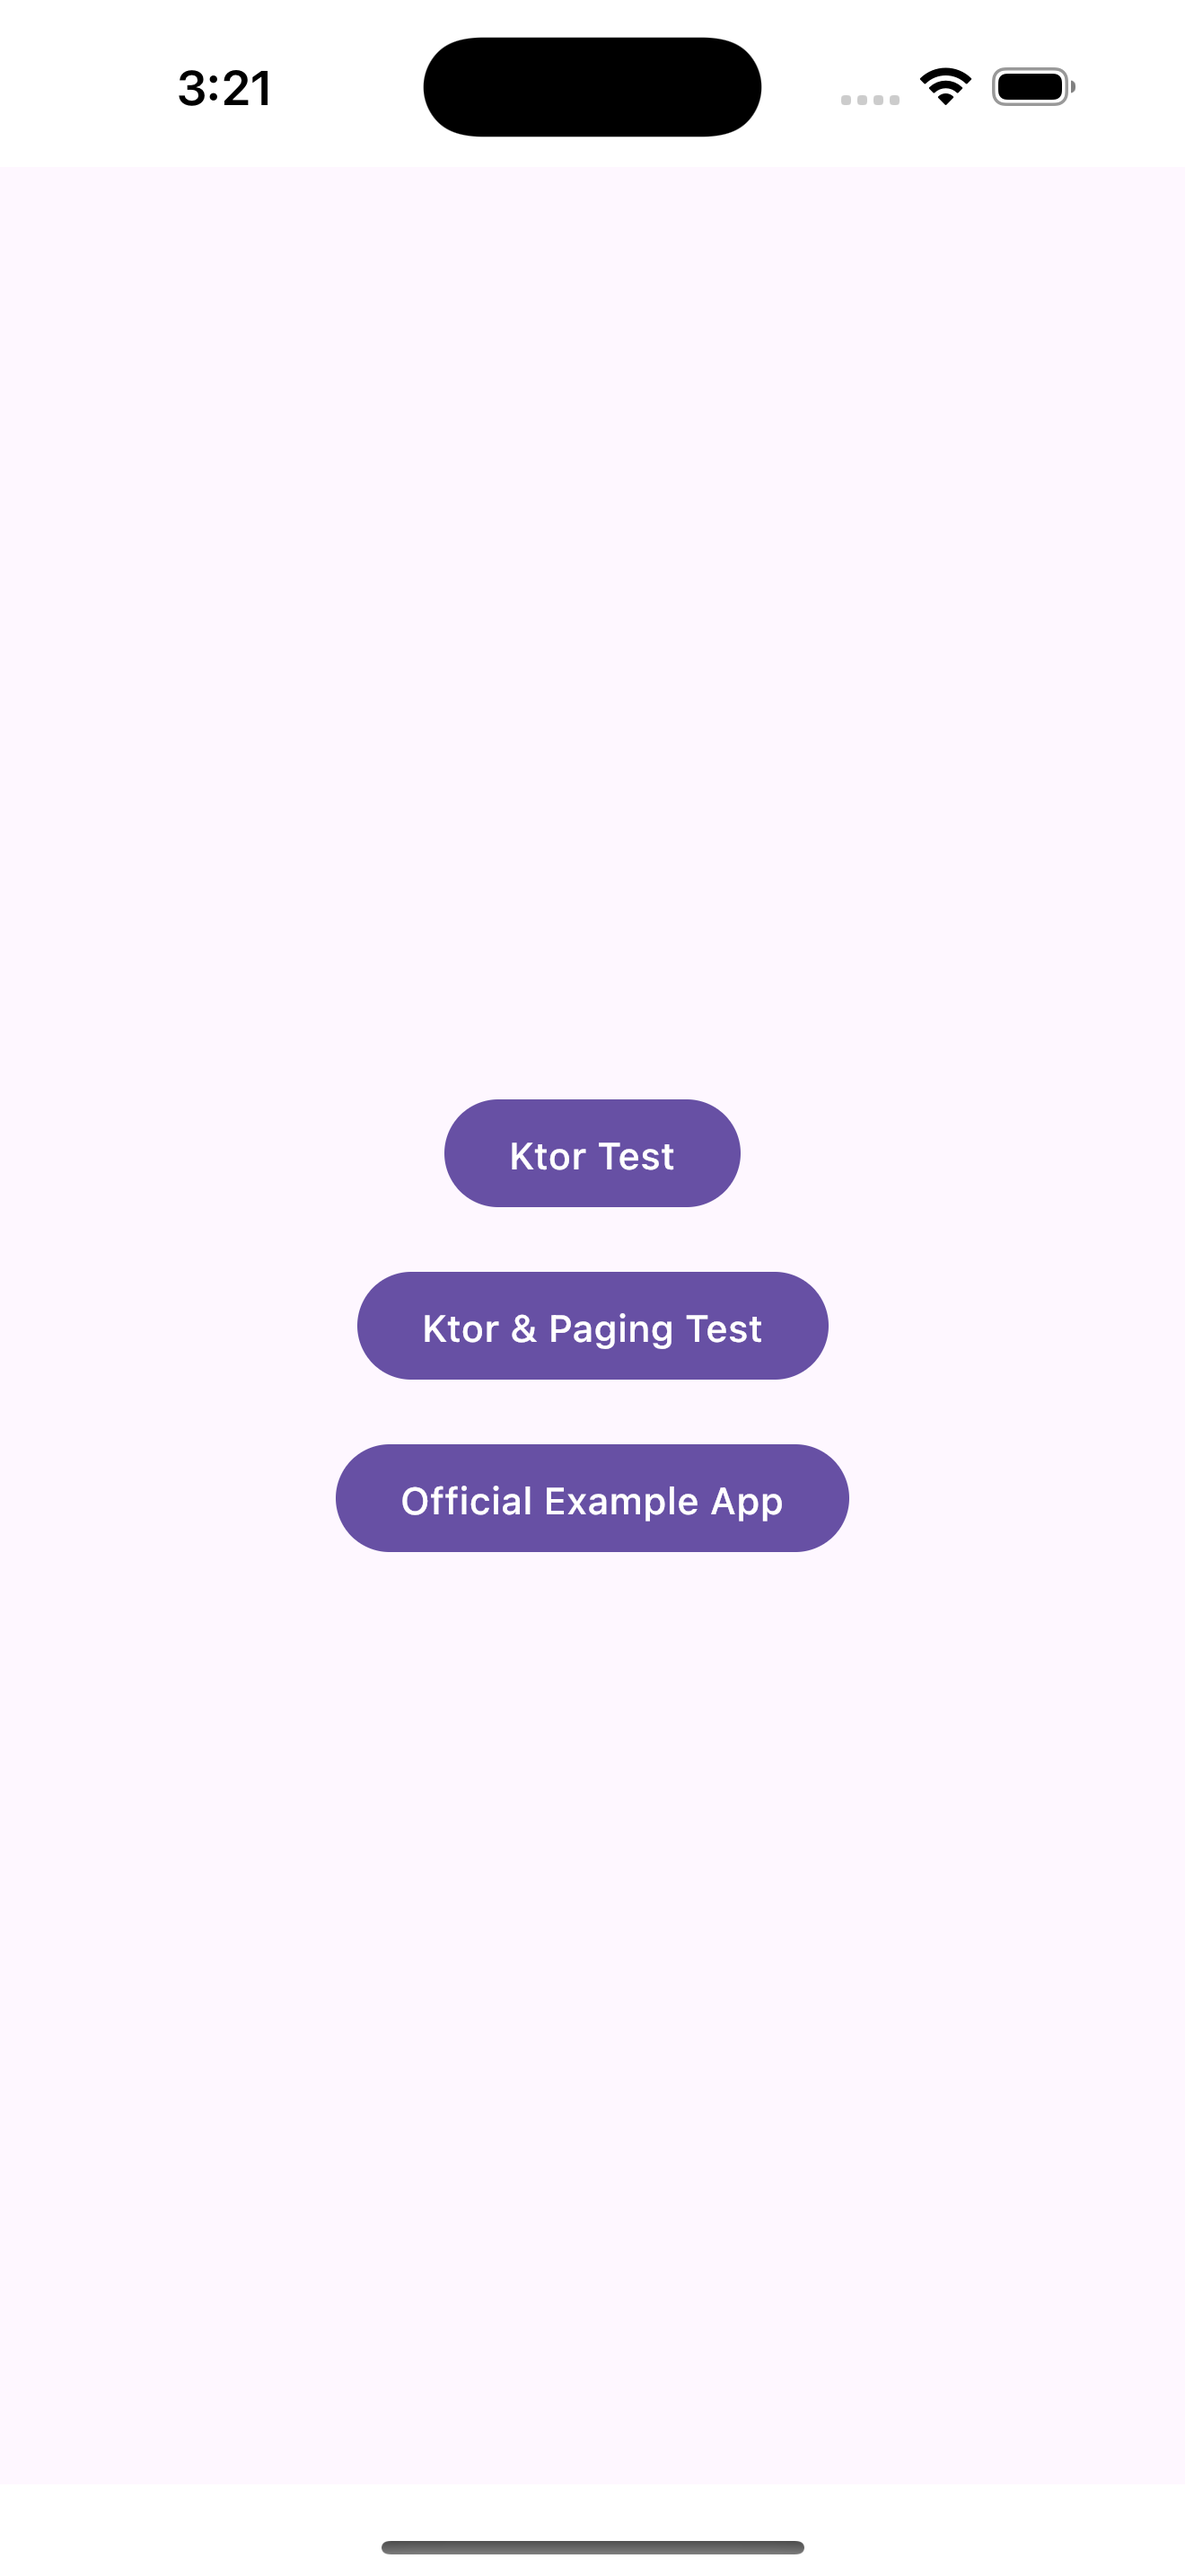
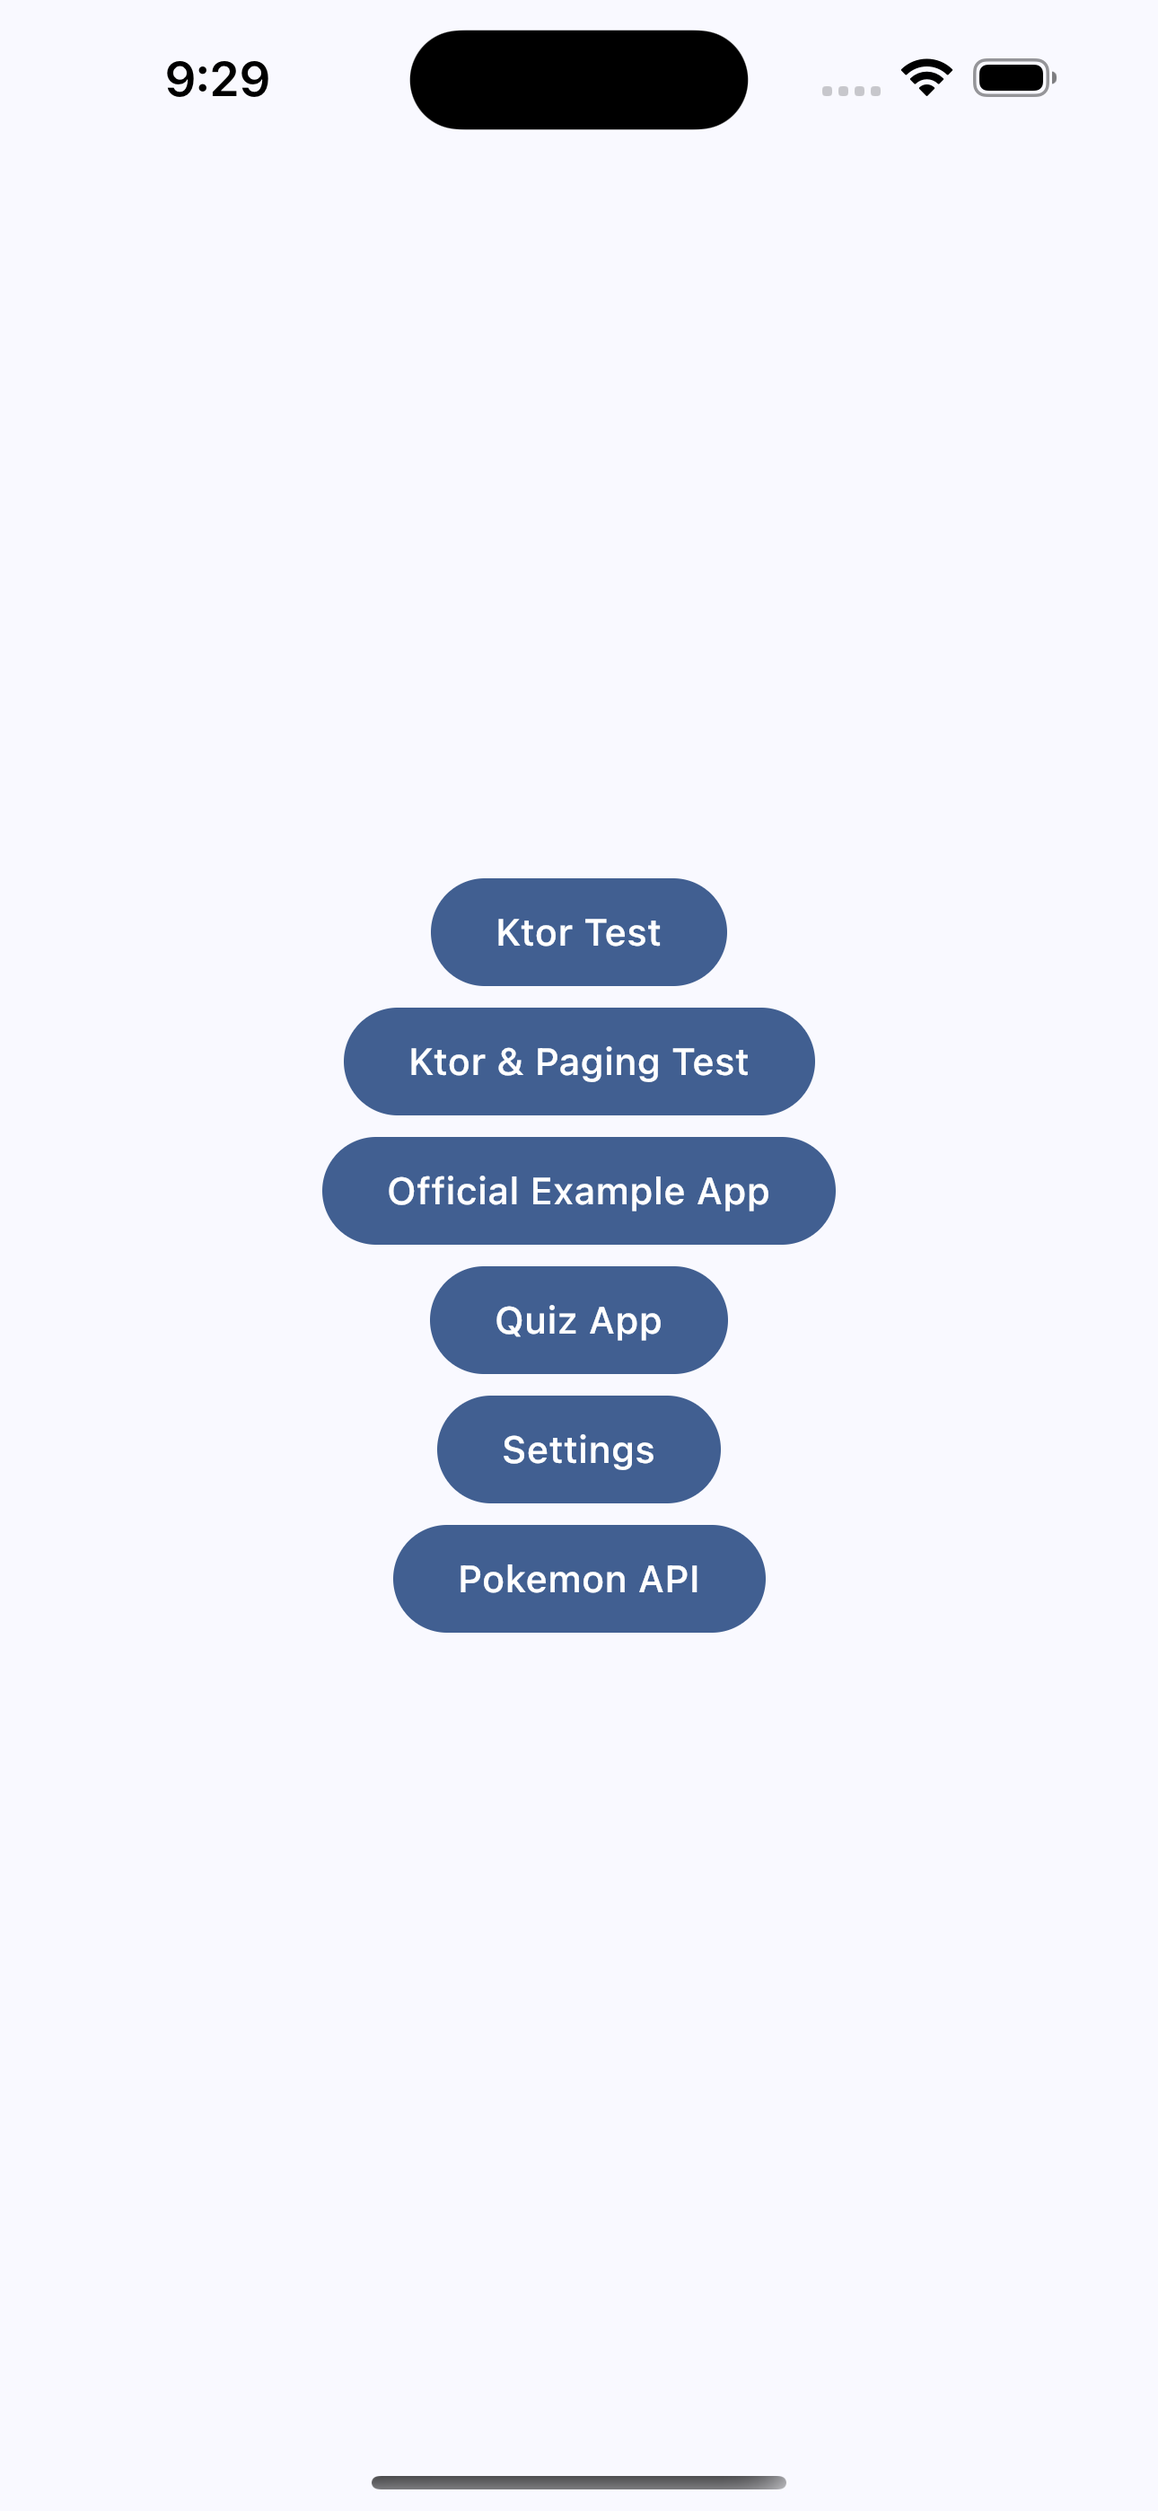
pokemon APIを使ったサンプルを追加

diff --git a/composeApp/src/commonMain/kotlin/com/jetbrains/kmpapp/screens/pokemon/PokemonPagingScreen.kt b/composeApp/src/commonMain/kotlin/com/jetbrains/kmpapp/screens/pokemon/PokemonPagingScreen.kt
@@ -19,10 +19,6 @@ import androidx.compose.foundation.lazy.grid.rememberLazyGridState
 import androidx.compose.material3.Button
 import androidx.compose.material3.MaterialTheme
 import androidx.compose.runtime.LaunchedEffect
-import androidx.compose.runtime.getValue
-import androidx.compose.runtime.mutableStateOf
-import androidx.compose.runtime.remember
-import androidx.compose.runtime.setValue
 import androidx.compose.runtime.snapshotFlow
 import androidx.compose.ui.layout.ContentScale
 import coil3.compose.AsyncImage
@@ -72,7 +68,6 @@ private fun PokemonPagingScreenStateless(
 
         LazyVerticalGrid(
             columns = GridCells.Adaptive(180.dp),
-            modifier = Modifier.fillMaxSize(),
             state = listState,
         ) {
             items(uiState.items, key = { it.id }) { item ->
@@ -99,7 +94,7 @@ private fun PokemonPagingScreenStateless(
 
         if (uiState.isLoading) {
             AppLoading(
-                modifier = Modifier.fillMaxWidth()
+                modifier = Modifier.fillMaxSize()
             )
         }
 

diff --git a/composeApp/src/commonMain/kotlin/com/jetbrains/kmpapp/data/pokemon/PokemonApi.kt b/composeApp/src/commonMain/kotlin/com/jetbrains/kmpapp/data/pokemon/PokemonApi.kt
@@ -66,7 +66,7 @@ internal class PokemonApi(private val json: Json) {
 
     companion object {
         const val LIMIT = 20 // 1ページに取得する件数
-        private const val TIMEOUT_MILLIS: Long = 3 * 1000 // TODO Adjust this value for debugging
+        private const val TIMEOUT_MILLIS: Long = 20 * 1000 // TODO Adjust this value for debugging
         private const val API_DOMAIN = "https://pokeapi.co/api/v2/"
     }
 }

diff --git a/README.md b/README.md
@@ -36,3 +36,6 @@ Create Config.xcconfig based on Config.xcconfig.sample and add the following set
 |                     1                      |                     2                      |
 |:------------------------------------------:|:------------------------------------------:|
 | <img src="./images/img_4.png" width=50% /> | <img src="./images/img_5.png" width=50% /> |
+
+## Pokemon API (Use Ktor) 
+<img src="./images/img_7.png" width=50% />
